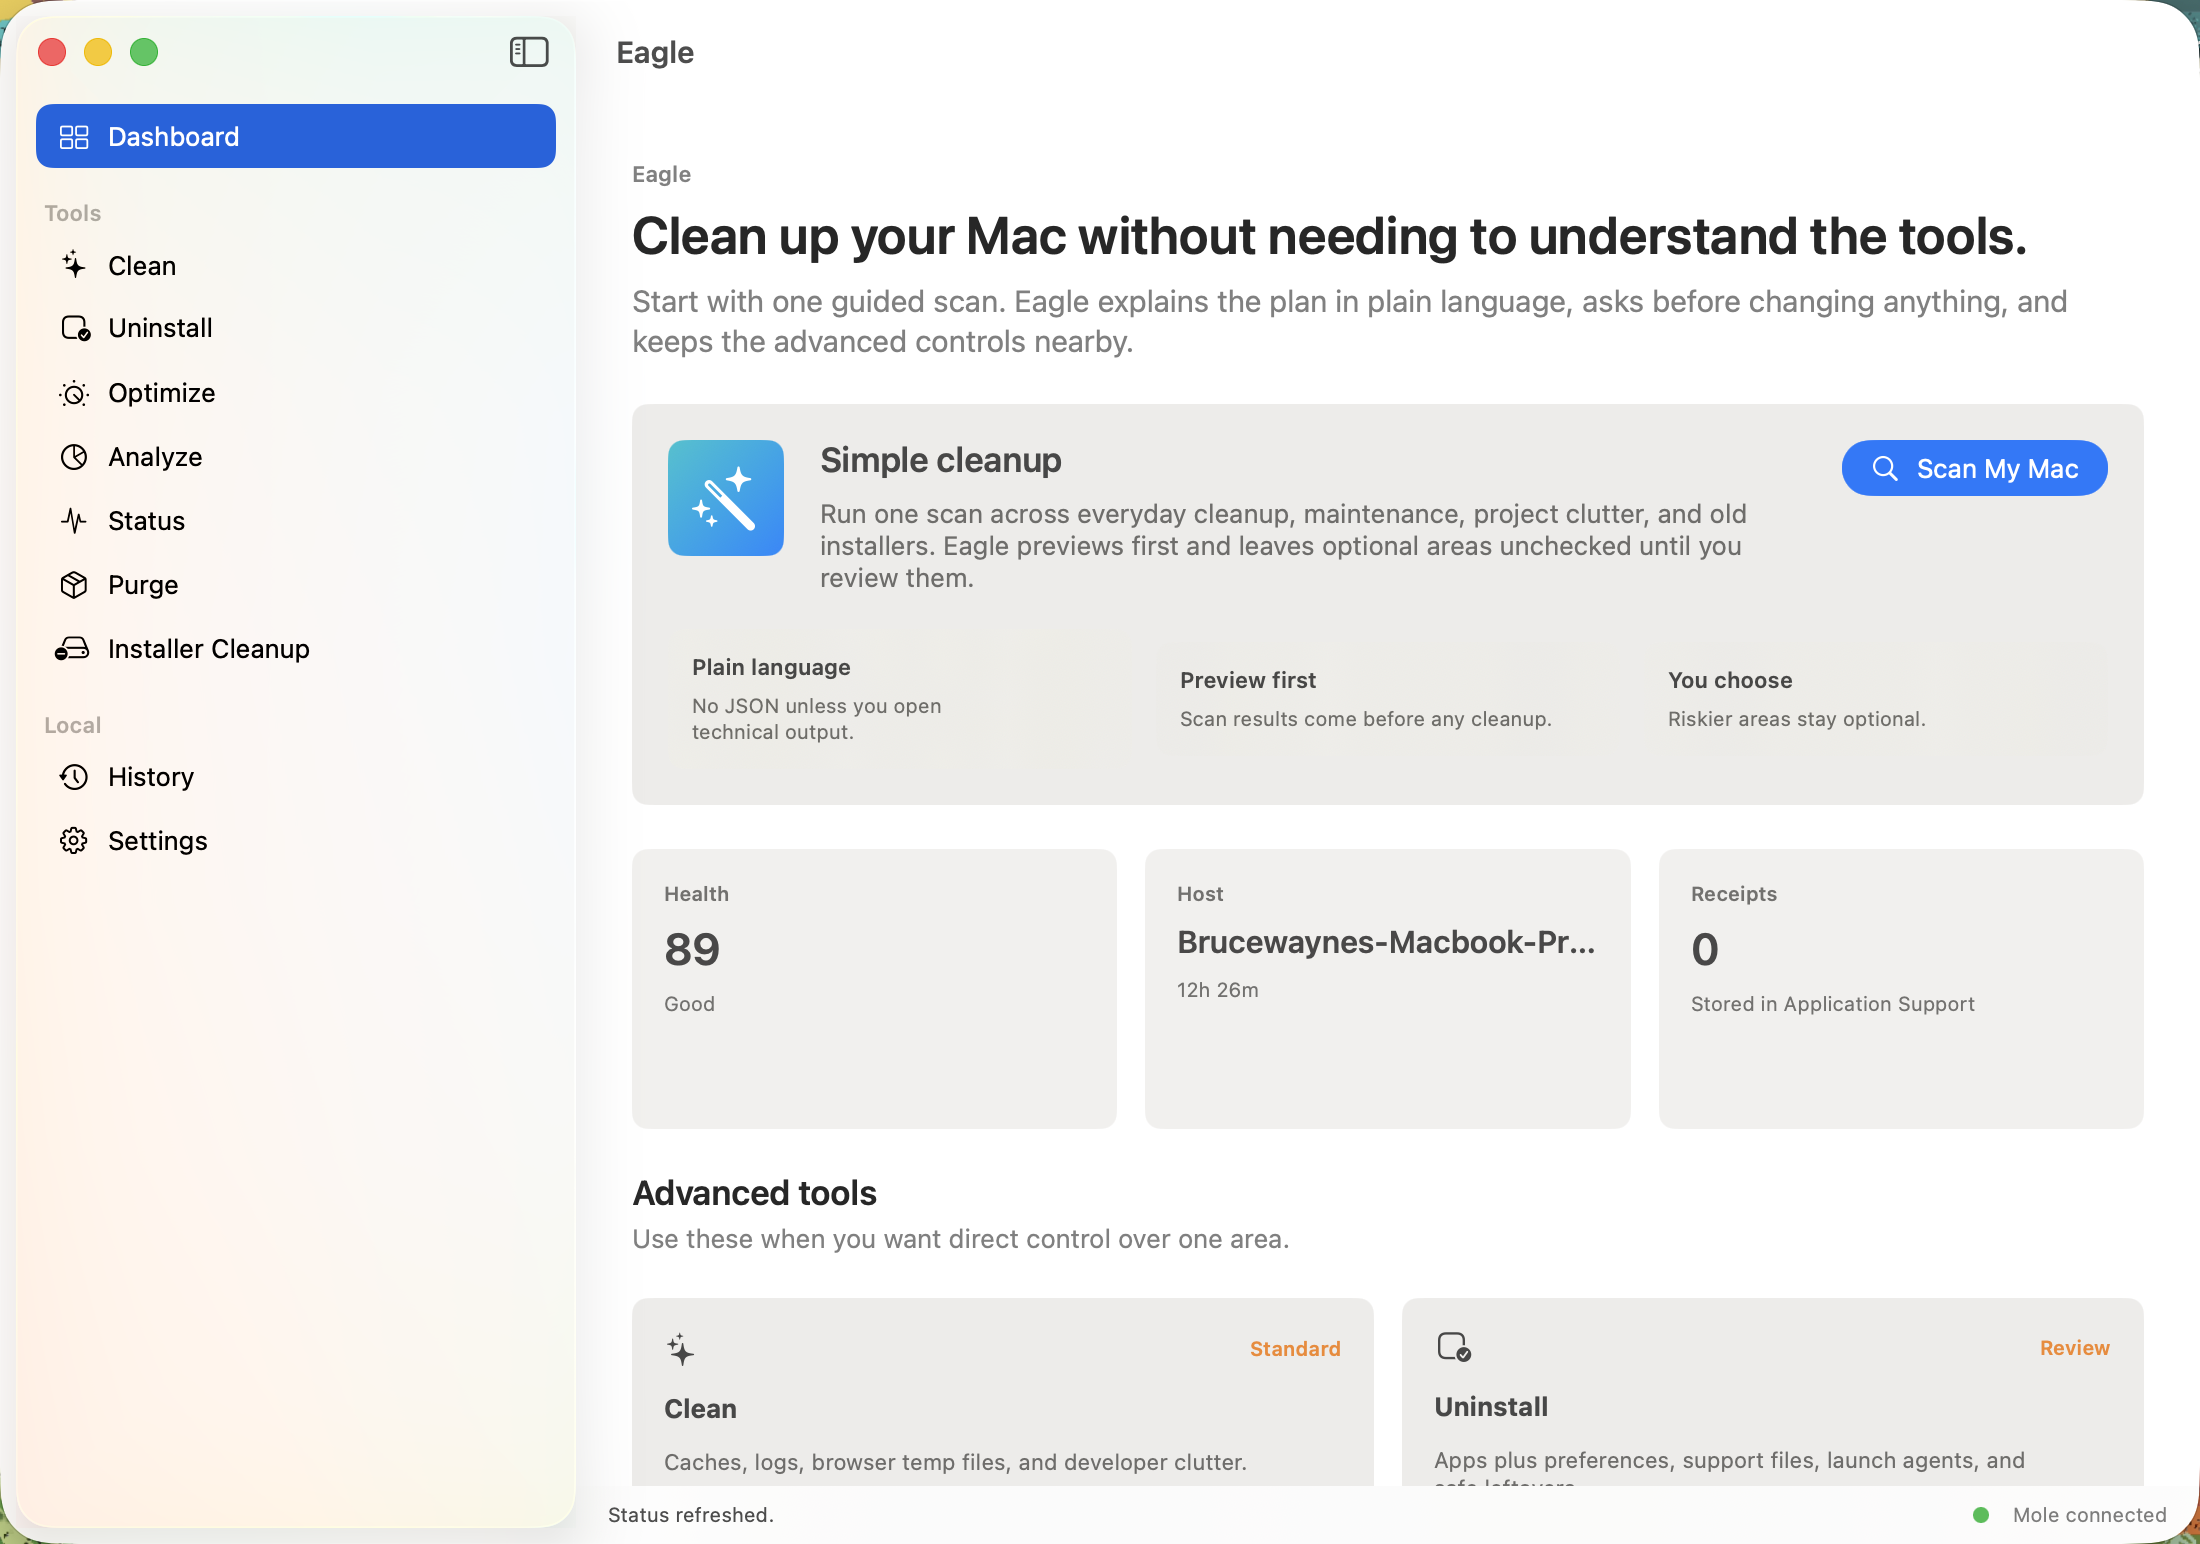
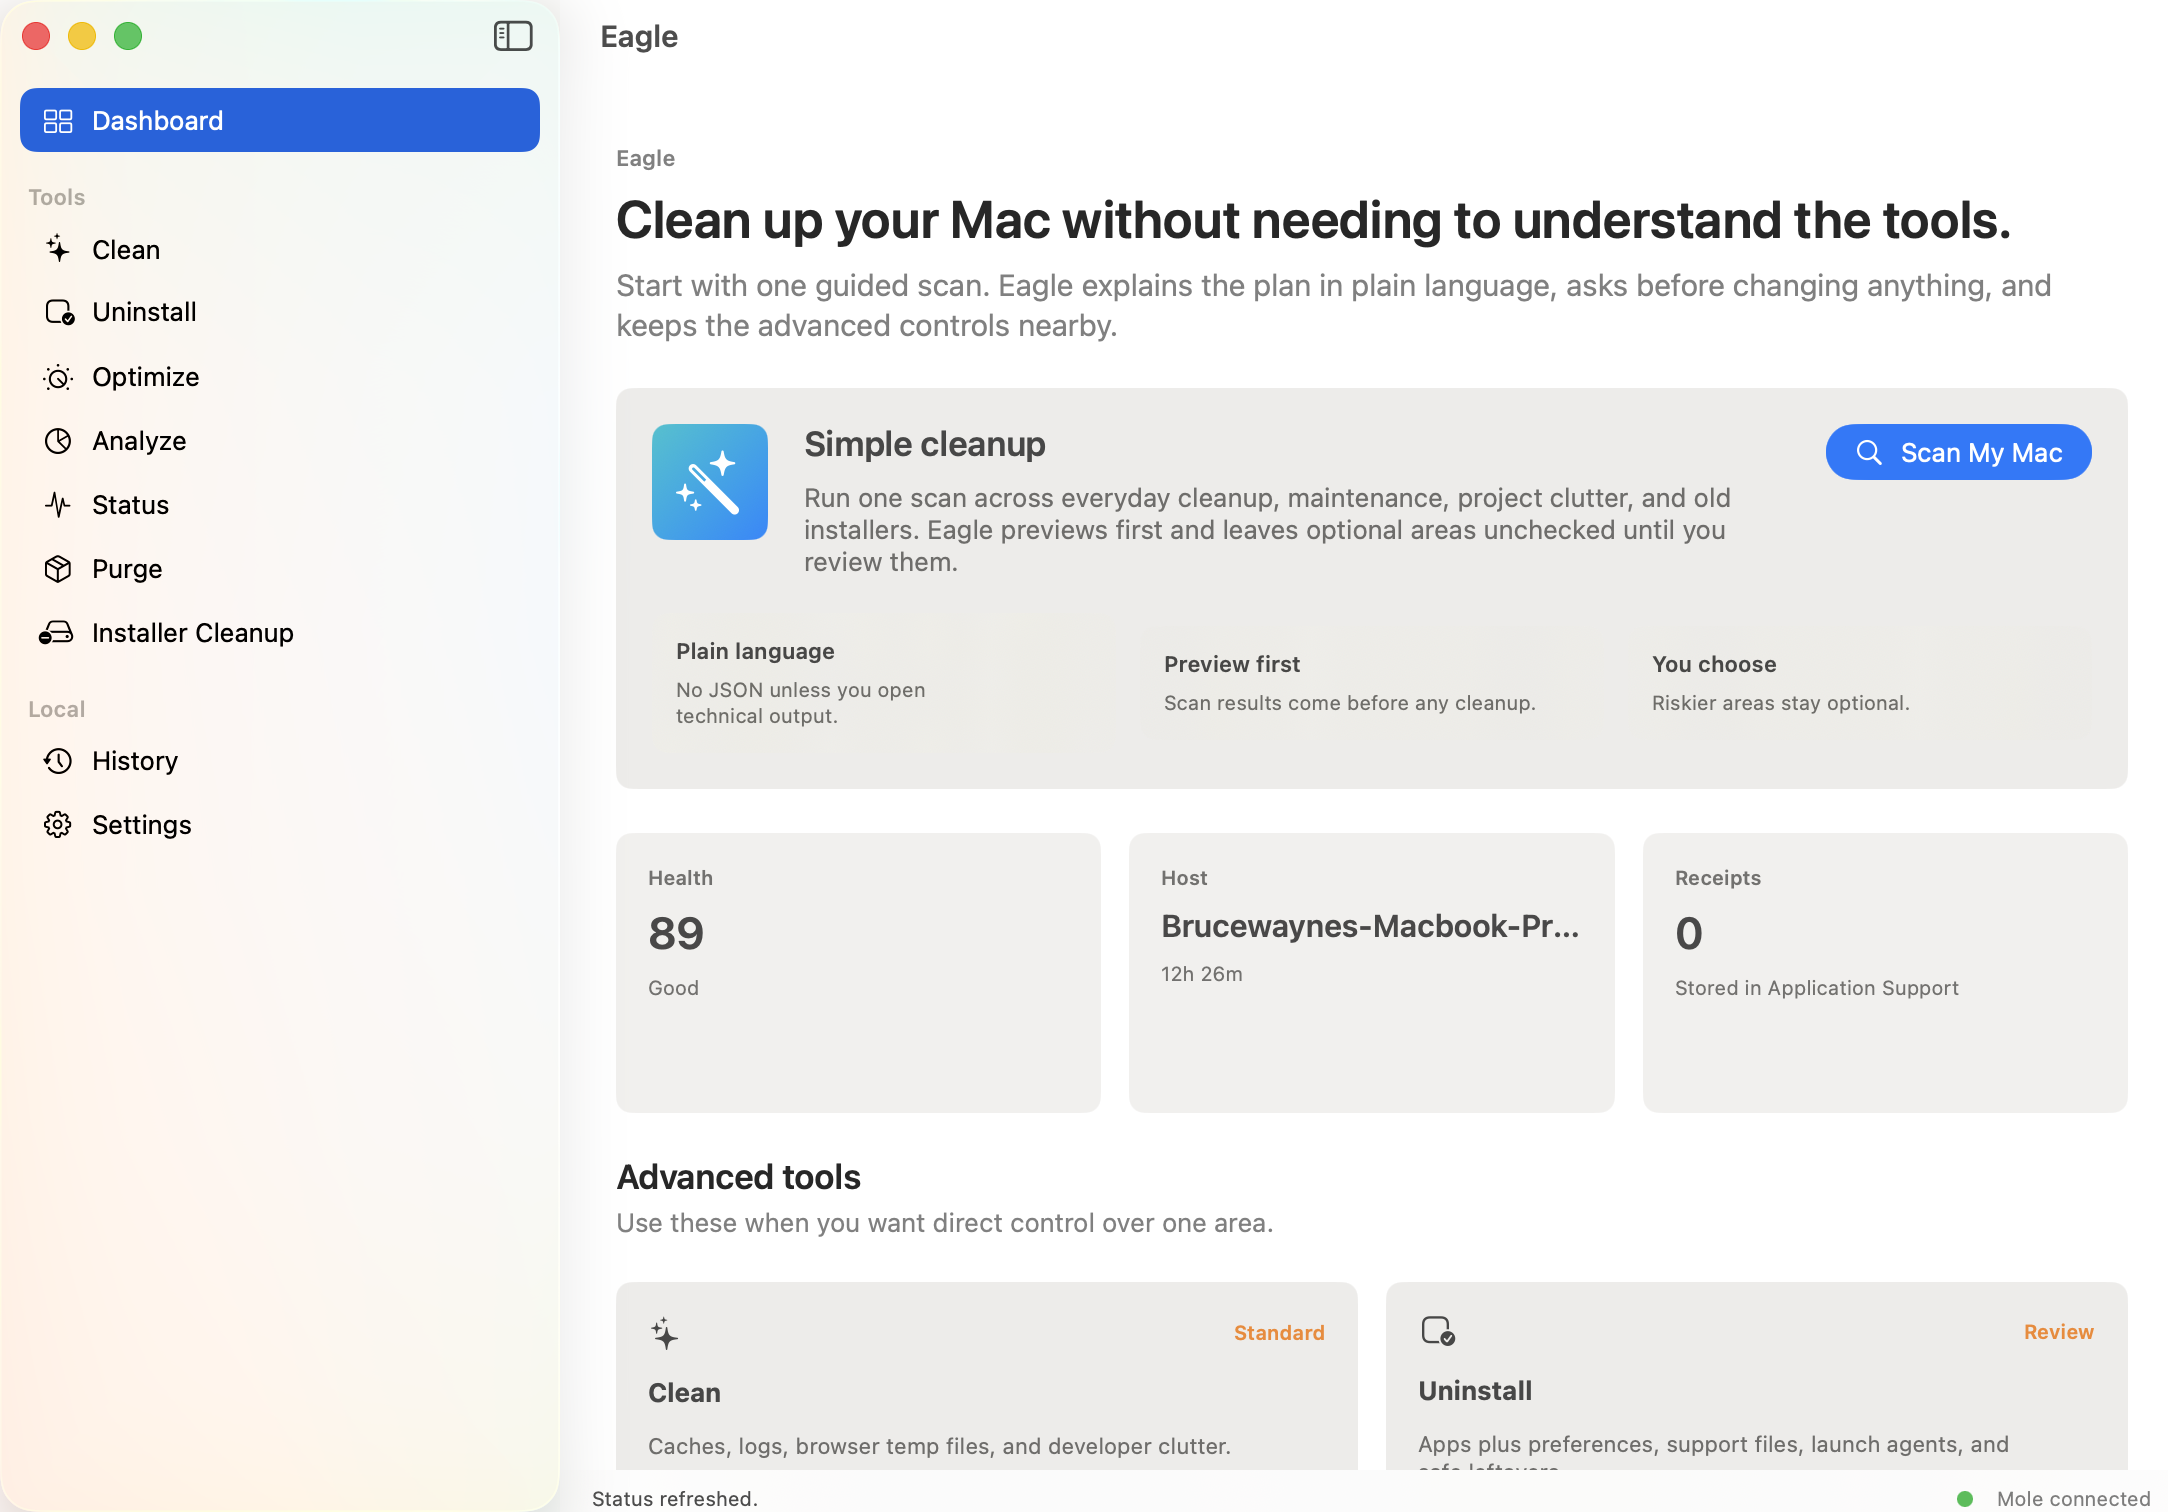
Clean hero screenshot edges

diff --git a/site/styles.css b/site/styles.css
@@ -16,7 +16,7 @@
   --radius: 8px;
   --max: 1160px;
   --hero-shot-width: 820px;
-  --hero-shot-height: 575px;
+  --hero-shot-height: 572px;
   --hero-shot-top: 0px;
   --hero-shot-shift: 0px;
   --product-shot-width: 320px;
@@ -220,7 +220,7 @@ a {
   z-index: 2;
   width: 100%;
   height: auto;
-  aspect-ratio: 2200 / 1544;
+  aspect-ratio: 2168 / 1512;
   border: 1px solid rgba(30,36,33,.16);
   border-radius: var(--radius);
   overflow: hidden;
